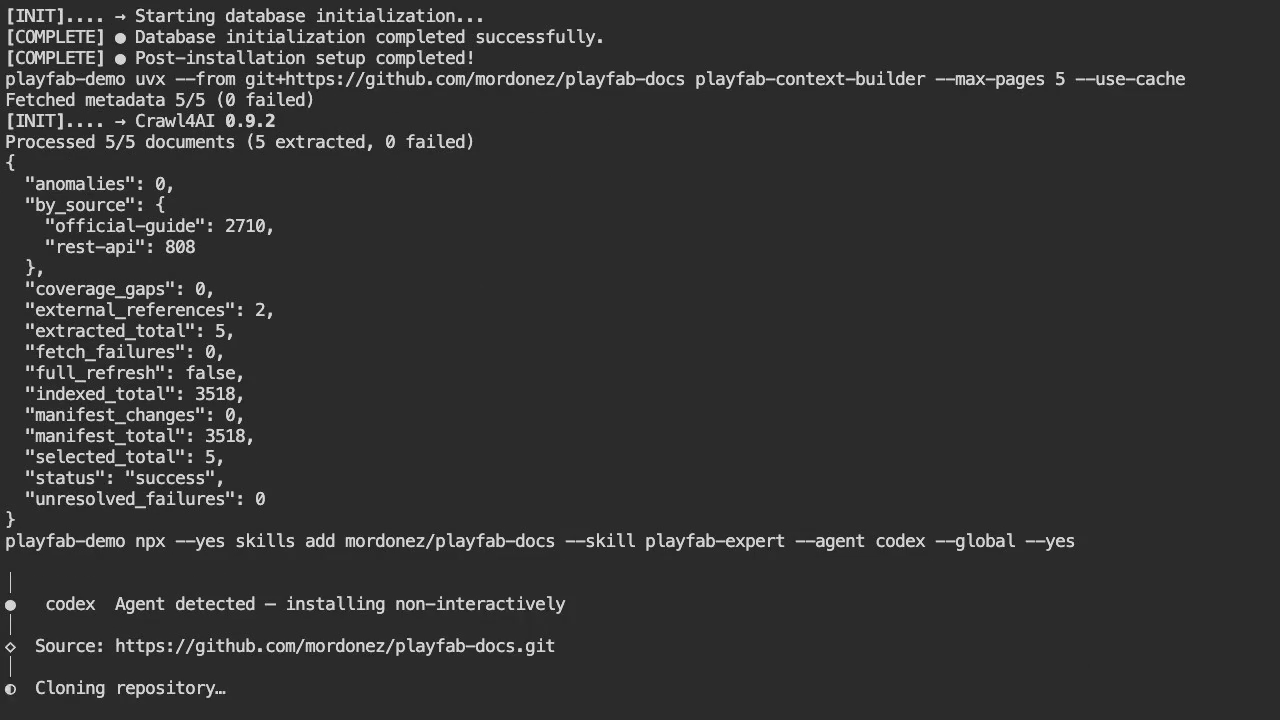
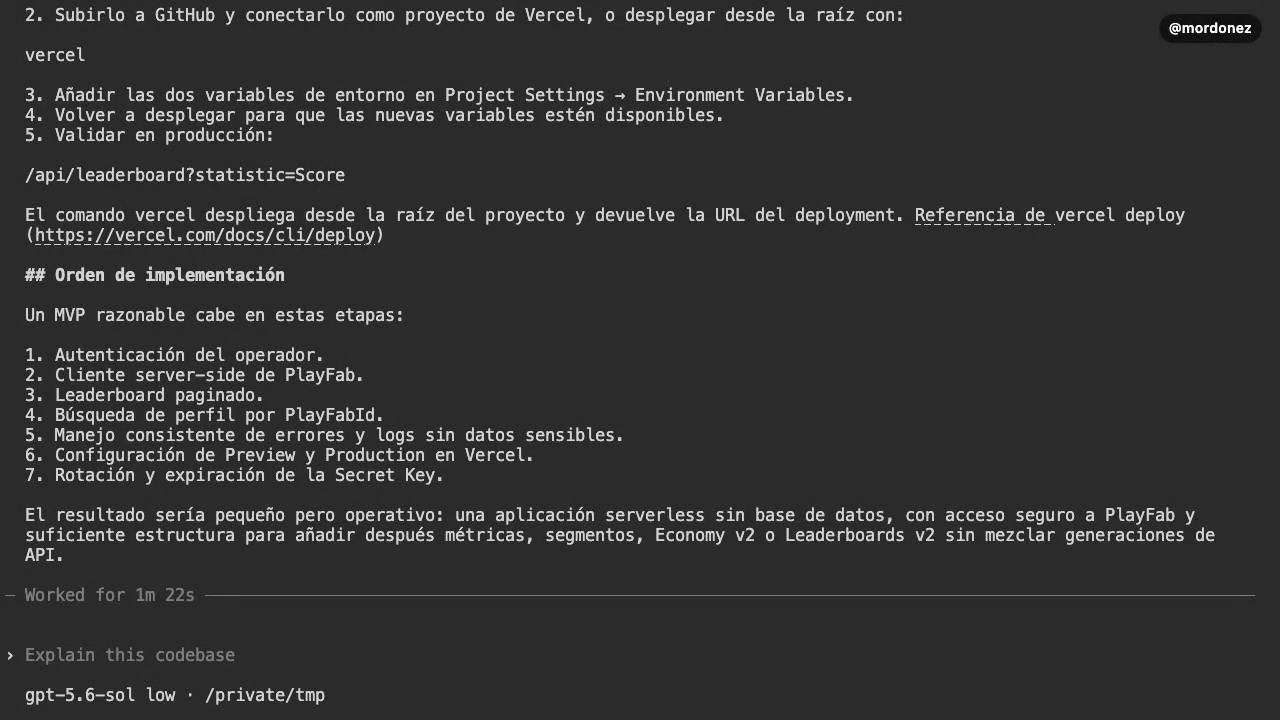
docs: update PlayFab demo video

diff --git a/README.md b/README.md
@@ -25,10 +25,10 @@ downloaded directly from Microsoft Learn when you run the builder.
 
 ## Video walkthrough
 
-[![Watch the real terminal installation and first Codex question](docs/assets/playfab-context-builder-demo.png)](docs/assets/playfab-context-builder-demo.mp4)
+[![Watch the real terminal installation and first Codex question](docs/assets/playfab-context-builder-demo.png)](https://raw.githubusercontent.com/mordonez/playfab-docs/main/docs/assets/playfab-context-builder-demo.webm)
 
-Select the image to watch the complete installation and first documented Codex
-answer.
+Select the image to play the WebM recording of the complete installation and
+first documented Codex answer.
 
 The reproducible
 [`shot-scraper` storyboard](docs/video/playfab-context-builder-storyboard.yml)